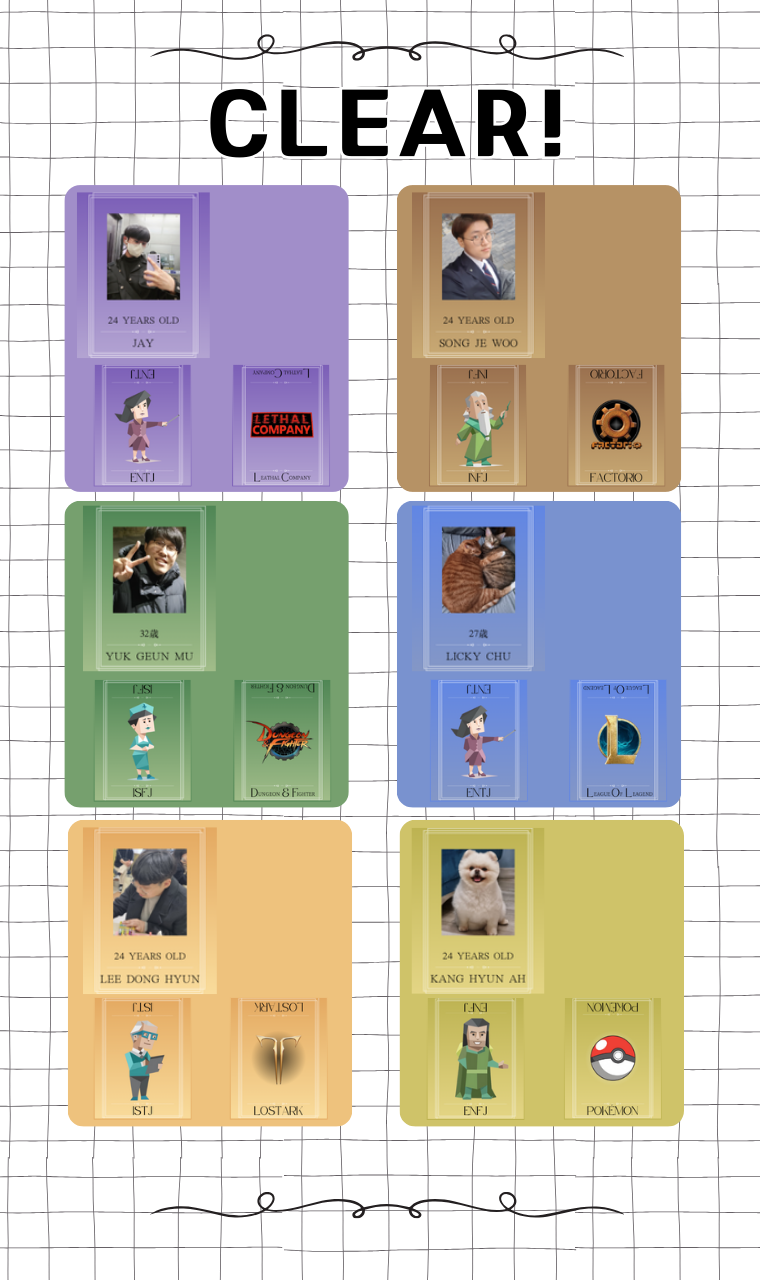
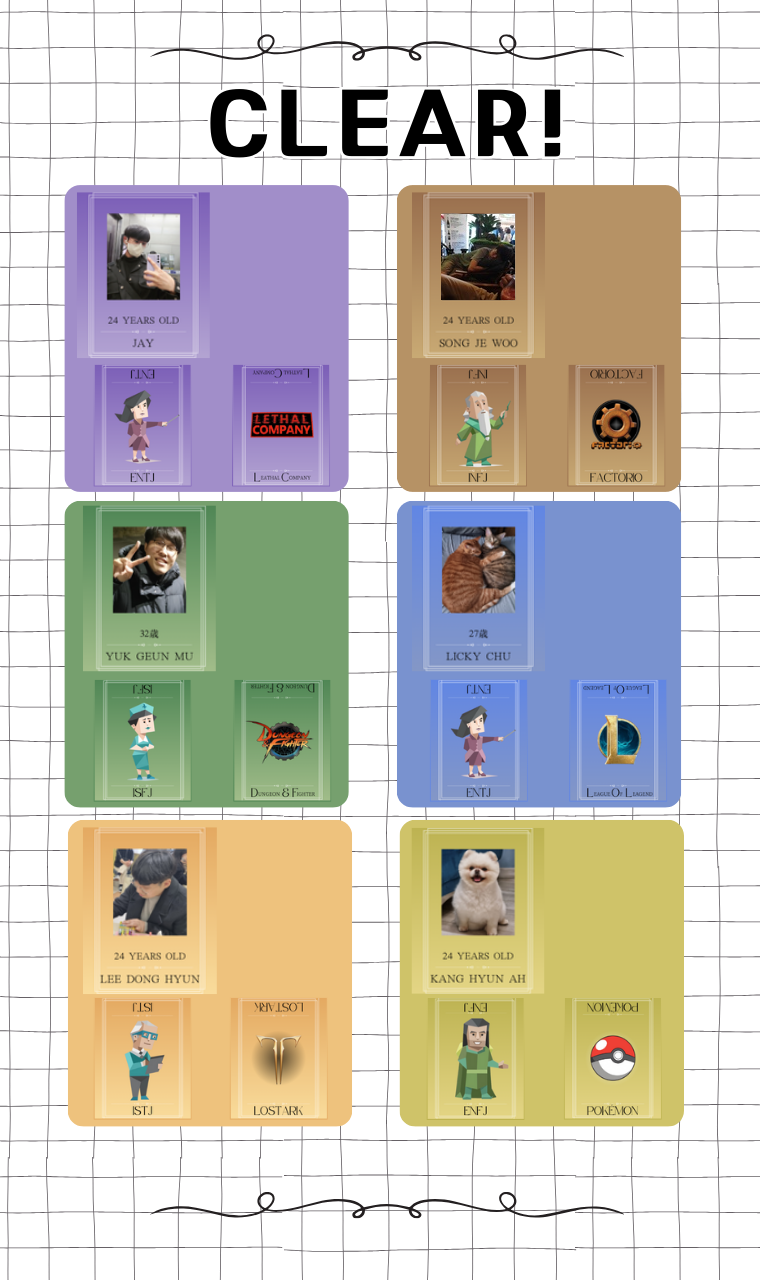
이미지 교체 및 클리어 씬 번역 추가

Changed region(s): [[0.575, 0.1562, 0.6961, 0.25]]

diff --git a/Assets/Scripts/ClearSceneTextManager.cs b/Assets/Scripts/ClearSceneTextManager.cs
@@ -21,6 +21,8 @@ public class ClearSceneTextManager : MonoBehaviour
     public Text currentRecordTxt;
     public Text retryTxt;
 
+    public Text pressAnyKeyTxt;
+
     public Font fontENG;
     public Font fontKOR;
     public Font fontJPN;
@@ -64,6 +66,7 @@ public class ClearSceneTextManager : MonoBehaviour
         bestRecordTxt.font = font;
         currentRecordTxt.font = font;
         retryTxt.font = font;
+        pressAnyKeyTxt.font = font;
     }
 
     public void SettingLanguage(string language)
@@ -90,6 +93,8 @@ public class ClearSceneTextManager : MonoBehaviour
             bestRecordTxt.text = "High Score";
             currentRecordTxt.text = "Current Score";
             retryTxt.text = "Play Again.";
+
+            pressAnyKeyTxt.text = "Please click the screen";
         }
         else if (nowLanguage == "KOR")
         {
@@ -105,6 +110,8 @@ public class ClearSceneTextManager : MonoBehaviour
             bestRecordTxt.text = "최고 기록";
             currentRecordTxt.text = "현재 기록";
             retryTxt.text = "다시하기";
+
+            pressAnyKeyTxt.text = "화면을 클릭해 주세요";
         }
         else if (nowLanguage == "JPN")
         {
@@ -120,6 +127,8 @@ public class ClearSceneTextManager : MonoBehaviour
             bestRecordTxt.text = "最高記録";
             currentRecordTxt.text = "現在記録";
             retryTxt.text = "もう一度プレイ";
+
+            pressAnyKeyTxt.text = "画面をクリックしてください";
         }
         else
         {
